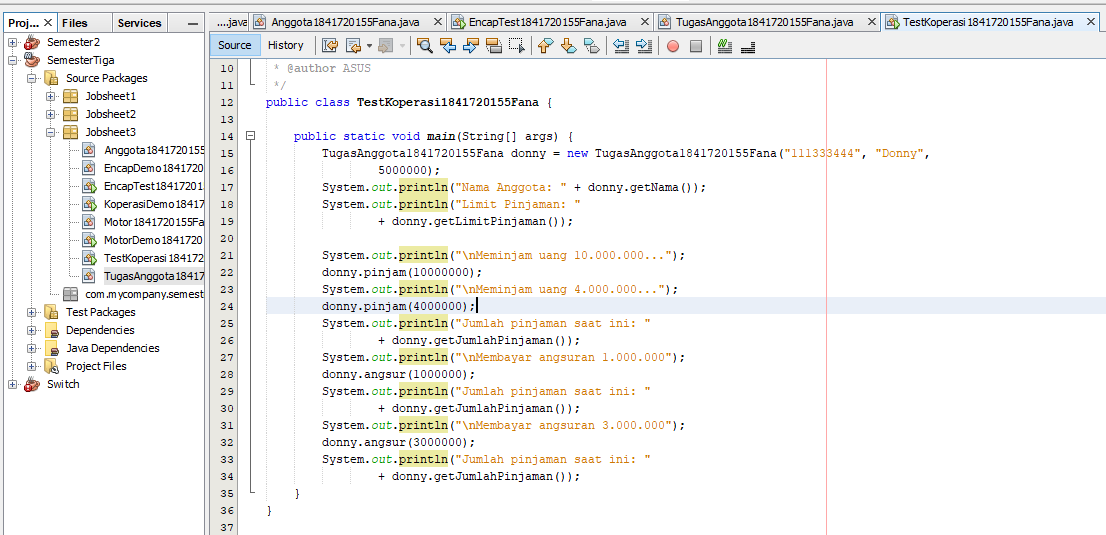
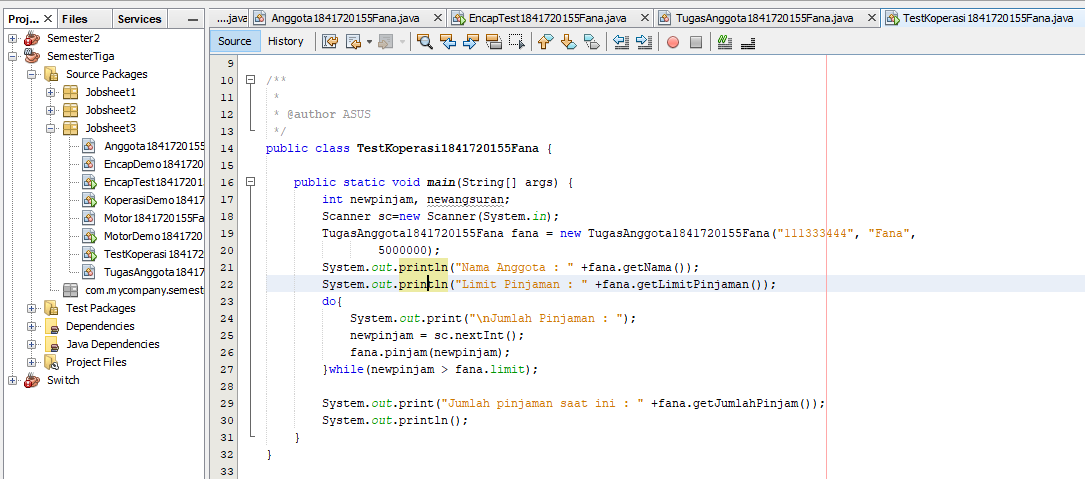
hmm

Changed region(s): [[0.0, 0.0, 1.0, 1.0], [0.6083, 0.8184, 0.7604, 0.8768]]

diff --git a/docs/3_Enkapsulasi/Laporan#3.md b/docs/3_Enkapsulasi/Laporan#3.md
@@ -12,6 +12,65 @@ Setelah melakukan percobaan pada modul ini, mahasiswa memahami konsep:
 
 ## Ringkasan Materi
 
+### 2.1 Enkapsulasi 
+ 
+Pada modul pertama telah dijabarkan definisi dari enkapsulasi sebagai berikut: Enkapsukasi disebut 
+juga dengan information-hiding. Dalam berinteraksi dengan objek, seringkali kita tidak perlu mengetahui 
+kompleksitas yang ada didalamnya. Hal ini akan lebih mudah dipahami jika kita membayangkan atau menganalisa 
+objek yang ada disekitar kita, misalnya objek sepeda, ketika kita mengganti gear pada sepeda, kita tinggal 
+menekan tuas gear yang ada di grip setang sepeda saja. Kita tidak perlu mengetahui bagaimana cara gear 
+berpindah secara teknis. Contoh objek lain misalnya mesin penghisap debu (vacum cleaner), ketika kita 
+mencolokkan kabel vacum cleaner dan menyalakan sakelarnya maka mesin tersebut siap digunakan untuk menghisap 
+debu. Dalam proses tersebut kita tidak mengetahui proses rumit yang terjadi ketika mengubah listrik menjadi 
+tenaga dari vacum cleaner. Dalam contoh diatas vacum cleaner dan sepeda telah menerapkan enkapsulasi atau 
+disebut juga information-hiding atau data hiding karena menyembunyikan detail proses suatu objek dari 
+pengguna. 
+
+### 2.2 konstruktor
+
+Konstruktor mirip dengan method cara deklarasinya akan tetapi tidak memiliki tipe return. 
+Dan konstruktor dieksekusi ketika instan dari objek dibuat. Jadi setiap kali sebuat objek 
+dibuat dengan keyword new() maka konstruktor akan dieksekusi. Cara untuk membuat konstruktor 
+adalah sebagai berikut:  
+1. Nama konstruktor harus sama dengan nama class 
+2. Konstruktor tidak memiliki tipe data return 
+3. Konstruktor tidak boleh menggunakan modifier abstract, static, final, dan syncronized 
+
+Note: Di java kita dapat memiliki konstruktor dengan modifier private, protected, public or default. 
+
+### 2.3 Akses Modifier 
+ 
+Terdapat 2 tipe modifier di java yaitu : akses modifier dan non-access modifier. Dalam hal 
+ini kita akan fokus pada akses modifier yang berguna untuk mengatur akses method, class, dan 
+constructor. Terdapat 4 akses modifier yaitu: 1. private – hanya dapat diakses di dalam kelas 
+yang sama 2. default –  hanya dapat diakses di dalam package yang sama 3. protected – dapat 
+diakases di luar package menggunakan subclass  (membuat inheritance) 4. public – dapat diakases 
+dari mana saja 
+
+### 2.4 Getter  dan Setter 
+ 
+Getter adalah public method dan memiliki tipe data return, yang berfungsi untuk mendapatkan 
+nilai dari atribut private. Sedangkan setter adalah public method yang tidak memliki tipe 
+data return, yang berfungsi untuk memanipulasi nilai dari atribut private. 
+
+### 2.5 Notasi UML Class Diagram 
+ 
+Secara umum bentuk UML class diagram adalah seperti pada Gambar 
+
+![R1](img/R1.PNG)
+
+Keterangan : 
+1. Class 
+2. Interface 
+3. Enumeration – adalah tipe data yang memiliki nilai atau literal yang terbatas. 
+4. Atrributes 5. Method 6. Literals 
+
+Notasi akses modifier pada UML class diagram adalah sebagai berikut: 
+1. Tanda plus (+) untuk public 
+2. Tanda pagar (#)  untuk protected 
+3. Tanda  minus (-) untuk private 
+4. Untuk default, maka tidak diberi notasi 
+
 ## Percobaan
 
 ### Percobaan 1
@@ -203,8 +262,55 @@ sesuai dengan nominal yang diangsur. Buatlah class Anggota tersebut, berikan atr
 Uji dengan TestKoperasi berikut ini untuk memeriksa apakah class Anggota yang anda buat telah sesuai dengan yang diharapkan. 
 
 jawab :
+*TugasAnggota*
 
  ![T4](img/T4.PNG)
+ ![T4.1](img/T4.1.PNG)
+
+ [TugasAnggota1841720155Fana](../../src/3_Enkapsulasi/TugasAnggota1841720155Fana.java)
+
+*TestKoperasi1841720155Fana*
+
+![T4.2](img/T4.2.PNG)
+![T4.3](img/T4.3.PNG)
+
+
+ [TestKoperasi1841720155Fana](../../src/3_Enkapsulasi/TestKoperasi1841720155Fana.java)
+
+ ### No 5
+
+5.  Modifikasi soal no. 4 agar nominal yang dapat diangsur minimal adalah 10% dari jumlah pinjaman saat ini. Jika mengangsur kurang dari itu, maka muncul peringatan “Maaf, angsuran harus 10% dari jumlah pinjaman”. 
+
+*tugasAnggota*
+menambahkan dari class tugas anggota
+
+![T5](img/T5.PNG)
+
+ [TugasAnggota1841720155Fana](../../src/3_Enkapsulasi/TugasAnggota1841720155Fana.java)
+
+*testKoperasi*
+menambahkan dari test koperasi
+
+![T5.1](img/T5.1.PNG)
+![T5.2](img/T5.2.PNG)
+
+[TestKoperasi1841720155Fana](../../src/3_Enkapsulasi/TestKoperasi1841720155Fana.java)
+
+ ### No 6
+
+6. Modifikasi class TestKoperasi, agar jumlah pinjaman dan angsuran dapat menerima input dari console. 
+
+*tugasAnggota*
+![T6](img/T6.PNG)
+![T6.1](img/T6.1.PNG)
+
+[TugasAnggota1841720155Fana](../../src/3_Enkapsulasi/TugasAnggota1841720155Fana.java)
+
+*testKoperasi*
+![T6.2](img/T6.2.PNG)
+![T6.3](img/T6.3.PNG)
+
+[TestKoperasi1841720155Fana](../../src/3_Enkapsulasi/TestKoperasi1841720155Fana.java)
 
 ## Kesimpulan
 
